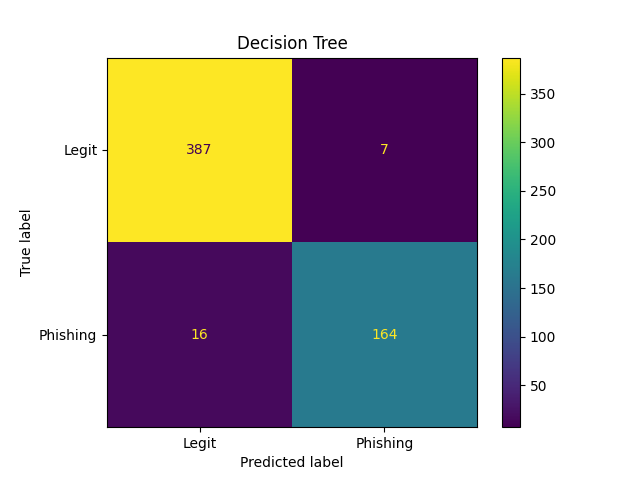
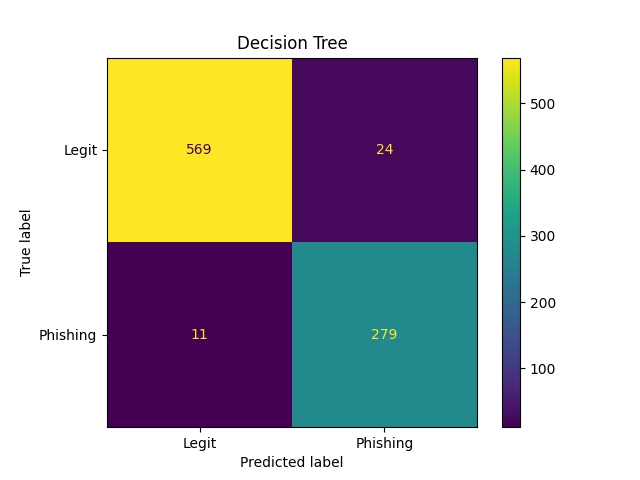
Tuning decision trees Gini importance to explain decision tree

diff --git a/explanation.py b/explanation.py
@@ -1,10 +1,11 @@
 import matplotlib.pyplot as plt
 from lime import lime_tabular
 from matplotlib import pyplot
-
+from heapq import nsmallest
 from data import load_data
 import warnings
 
+import numpy as np
 import os
 import pickle
 
@@ -22,12 +23,12 @@ def show_explanation(explanation, title=""):
     plt.show()
 
 
-def explain(explainer, instance_to_explain, model, num_features):
+def explain(explainer, instance_to_explain, model, num_features, print_out=True):
     explanation = explainer.explain_instance(instance_to_explain, model.predict_proba, num_features=num_features)
     pred = model.predict_proba(instance_to_explain.values.reshape(1, -1))
-    print(f"Predictions: Legit = {pred[0][0]}, Phishing = {pred[0][1]}")
-    print(explanation.as_list())
-
+    if print_out:
+        print(f"Predictions: Legit = {pred[0][0]}, Phishing = {pred[0][1]}")
+        print(explanation.as_list())
     return explanation, pred
 
 
@@ -48,6 +49,98 @@ def save_explanation_to_file(explanation, file_name, folder_name=None):
     explanation.save_to_file(os.path.join(base_path, file_name+".html"))
 
 
+def tree_global_explanation(tree_model):
+    # Decision tree feature importance based on the Gini index (Gini importance)
+    # Importance of a feature is computed as the total reduction of the criterion brought by that feature weighted by
+    # the probability of reaching that node (# of samples that reach the node, divided by the tot # of samples)
+    # The higher the value, the more important the feature.
+    importance = tree_model.feature_importances_
+    # summarize feature importance
+    for i, v in enumerate(importance):
+        print('Feature: %0d (%s), Score: %.5f' % (i, feature_names[i], v))
+    # plot decision tree feature importance
+    pyplot.bar([x for x in range(len(importance))], importance)
+    pyplot.show()
+
+
+def tree_local_explanation(clf, x_test, start_index=0, end_index=10, n_top_features=3):
+    node_indicator = clf.decision_path(x_test)
+    n_nodes = clf.tree_.node_count
+    feature = clf.tree_.feature
+    threshold = clf.tree_.threshold
+    leaf_id = clf.apply(x_test)
+    sample_ids = range(start_index, end_index)
+
+    for sample_id in sample_ids:
+        # obtain ids of the nodes `sample_id` goes through, i.e., row `sample_id`
+        node_index = node_indicator.indices[
+                     node_indicator.indptr[sample_id]: node_indicator.indptr[sample_id + 1]
+                     ]
+
+        print("Rules used to predict sample {id}:\n".format(id=sample_id))
+        print(f"Sample {id}:", x_test.iloc[sample_id])
+        # node = 0  # start at root
+        impurity_at_node = 1
+        features_impurity_differences = {f: 0 for f in feature_names}
+        for node_id in node_index:
+            # continue to the next node if it is a leaf node
+            feature_name = x_test.iloc[sample_id].keys()[feature[node_id]]  # the feature considered for the node split
+            if leaf_id[sample_id] == node_id:
+                continue
+            # check if value of the split feature for sample 0 is below threshold
+            if x_test.iloc[sample_id, feature[node_id]] <= threshold[node_id]:
+                threshold_sign = "<="
+                # node = clf.tree_.children_left[node]
+            else:
+                threshold_sign = ">"
+                # node = clf.tree_.children_right[node]
+            if node_id != 0:
+                diff_impurity = clf.tree_.impurity[node_id] - impurity_at_node
+                features_impurity_differences[feature_name] += diff_impurity
+            impurity_at_node = clf.tree_.impurity[node_id]
+
+            print(
+                "decision node {node} : ({feature_name} = {value}) "
+                "{inequality} {threshold})".format(
+                    node=node_id,
+                    sample=sample_id,
+                    feature_name= feature_name,
+                    feature=feature[node_id],
+                    value=x_test.iloc[sample_id, feature[node_id]],
+                    inequality=threshold_sign,
+                    threshold=threshold[node_id],
+                )
+            )
+
+        # For a group of samples, we can determine the common nodes the samples go through
+        common_nodes = node_indicator.toarray()[sample_ids].sum(axis=0) == len(sample_ids)
+        # obtain node ids using position in array
+        common_node_id = np.arange(n_nodes)[common_nodes]
+        print(f"\nThe following samples {sample_ids} share the node(s) {common_node_id} in the tree.")
+        print("This is {prop}% of all nodes.".format(prop=100 * len(common_node_id) / n_nodes))
+        top_features_gini_importance = nsmallest(n_top_features, features_impurity_differences,
+                                                 key=features_impurity_differences.get)
+        print(f"Top features are: {top_features_gini_importance}")
+        return top_features_gini_importance
+
+
+def lime_explain(model, lime_explainer, x_test, y_test, file_name='lime', start_index=0, end_index=10, show=True, save_file=True):
+    warnings.filterwarnings(action='ignore', category=UserWarning)
+
+    for i in range(start_index, end_index):
+        instance = x_test.iloc[i]
+        real_class = 'Legit (0)' if y_test.iloc[i].item() == 0 else 'Phishing (1)'
+        print("Instance " + str(i) + f" - Real class: {real_class}")
+        folder_name = str(i)+"_"+str(y_test.iloc[i].item())
+        # DECISION TREE
+        explanation_model, predictions = explain(lime_explainer, instance, model, len(feature_names))
+        if show:
+            show_explanation(explanation_model, "Explanation " + file_name)
+        if save_file:
+            save_explanation_to_file(explanation_model, file_name, folder_name=folder_name)
+        return explanation_model, predictions
+
+
 if __name__ == "__main__":
     # Load data
     seed = 42
@@ -57,44 +150,22 @@ if __name__ == "__main__":
     dt_model = load_model('decision_tree.obj')
     svm_model = load_model('svm.obj')
     rf_model = load_model('random_forest.obj')
+    lr_model = load_model('logistic_regression.obj')
 
-    warnings.filterwarnings(action='ignore', category=UserWarning)
+    start_test = 0
+    end_test = 10
 
-    # Decision tree feature importance based on the Gini index (Gini importance)
-    # Importance of a feature is computed as the (normalized) total reduction of the criterion brought by that feature.
-    importance = dt_model.feature_importances_
-    # summarize feature importance
-    for i, v in enumerate(importance):
-        print('Feature: %0d (%s), Score: %.5f' % (i, feature_names[i], v))
-    # plot feature importance
-    pyplot.bar([x for x in range(len(importance))], importance)
-    pyplot.show()
-
+    # tree_global_explanation(dt_model)
+    tree_local_explanation(dt_model, x_test, start_test, end_test)
     # LIME Explanations for single instances of the test set
     lime_explainer = lime_tabular.LimeTabularExplainer(x_training.values, mode="classification",
                                                        class_names=['Legit', 'Phishing'],
-                                                       feature_names=feature_names)
-    for i in range(0, 0):
-        instance = x_test.iloc[i]
-        real_class = 'Legit (0)' if y_test.iloc[i].item() == 0 else 'Phishing (1)'
-        print("Instance " + str(i) + f" - Real class: {real_class}")
+                                                       feature_names=feature_names, random_state=seed)
 
-        folder_name = str(i)+"_"+str(y_test.iloc[i].item())
-        # DECISION TREE
-        explanation_dt, _ = explain(lime_explainer, instance, dt_model, len(feature_names))
-        # show_explanation(explanation_dt, "Explanation DT")
-        save_explanation_to_file(explanation_dt, 'decision_tree', folder_name=folder_name)
-
-        # SVM
-        explanation_svm, _ = explain(lime_explainer, instance, svm_model, len(feature_names))
-        # show_explanation(explanation_svm, "Explanation SVM")
-        save_explanation_to_file(explanation_svm, 'svm', folder_name=folder_name)
-
-        # RANDOM FOREST
-        explanation_rf, predictions_instance = explain(lime_explainer, instance, rf_model, len(feature_names))
-        # show_explanation(explanation_rf, "Explanation RF")
-        save_explanation_to_file(explanation_rf, 'random_forest', folder_name=folder_name)
-        print("\n")
+    lime_explain(dt_model, lime_explainer, x_test, y_test, 'decision_tree', start_test, end_test)
+    # lime_explain(svm_model, lime_explainer, x_test, y_test, 'svm', start_test, end_test)
+    # lime_explain(rf_model, lime_explainer, x_test, y_test, 'random_forest', start_test, end_test)
+    # lime_explain(lr_model, lime_explainer, x_test, y_test, 'logistic_regression', start_test, end_test)
 
     # explanation_rf_1, predictions_instance_1 = explain_without_features(lime_explainer, instance,
     #                                                                    rf_model, explanation_rf,

diff --git a/training.py b/training.py
@@ -21,11 +21,11 @@ from data import load_data, stratifiedKFold
 
 def showTree(model, feature_names):
     plt.figure(figsize=(200, 20))
-    tree.plot_tree(model)
+    tree.plot_tree(model, feature_names=feature_names, filled=True, rounded=True, class_names=["Legit", "Phishing"])
     print("Number of nodes:", model.tree_.node_count)
     print("Number of leaves:", model.get_n_leaves())
     plt.show()
-    output_filepath = os.path.join('output', 'decision_tree.dot')
+    """output_filepath = os.path.join('output', 'decision_tree.dot')
     dot_data = tree.export_graphviz(model, out_file=None,
                                     feature_names=feature_names,
                                     class_names=["Legit", "Phishing"],
@@ -33,7 +33,7 @@ def showTree(model, feature_names):
                                     special_characters=True)
     # graph = pydotplus.graphviz.graph_from_dot_data(dot_data)
     # graph.write_png(output_filepath)
-    # return graph
+    # return graph"""
 
 
 def decisionTreeF1(x, y, model):
@@ -46,6 +46,8 @@ def determineDTkFoldConfiguration(x_train, x_val, y_train, y_val, class_weights,
     best_criterion = 'gini'
     best_alpha = 0
     best_f1 = 0
+    min_samples_leaf = 7
+    max_depth = 8
     n_folds = len(x_train)
     for criterion in ['gini', 'entropy']:
         for alpha in np.arange(0, 0.2, 0.001):
@@ -55,7 +57,9 @@ def determineDTkFoldConfiguration(x_train, x_val, y_train, y_val, class_weights,
                 t = tree.DecisionTreeClassifier(criterion=criterion,
                                                 ccp_alpha=alpha,
                                                 random_state=seed,
-                                                class_weight=class_weights)
+                                                class_weight=class_weights,
+                                                min_samples_leaf=min_samples_leaf,
+                                                max_depth=max_depth)
                 t.fit(x_train[k], y_train[k])
                 f1_scores[k] = decisionTreeF1(x=x_val[k], y=y_val[k], model=t)
             avg_f1 = sum(f1_scores) / n_folds
@@ -65,7 +69,8 @@ def determineDTkFoldConfiguration(x_train, x_val, y_train, y_val, class_weights,
                 best_alpha = alpha
                 best_criterion = criterion
 
-    return best_alpha, best_criterion
+    return {"alpha": best_alpha, "criterion": best_criterion,
+            "max_depth": max_depth, "min_samples_leaf": min_samples_leaf}
 
 
 # SVM Hyper-parameter tuning
@@ -238,15 +243,17 @@ if __name__ == '__main__':
     class_weights = {0: 1, 1: 2}
 
     # --- DECISION TREE ----
-    # best_alpha_tree, best_criterion_tree = determineDTkFoldConfiguration(x_train_v, x_val, y_train_v, y_val,
-    #                                                                     class_weights, seed)
-    # print(best_alpha_tree, best_criterion_tree)
-    best_alpha_tree = 0  # 0.002
-    best_criterion_tree = 'entropy'
-    dt_model = tree.DecisionTreeClassifier(criterion=best_criterion_tree,
-                                           ccp_alpha=best_alpha_tree,
+    best_parameters_dt = determineDTkFoldConfiguration(x_train_v, x_val, y_train_v, y_val,
+                                                       class_weights, seed)
+    print(best_parameters_dt["alpha"], best_parameters_dt["criterion"])
+    # best_alpha_tree = 0  # 0.002
+    # best_criterion_tree = 'entropy'
+    dt_model = tree.DecisionTreeClassifier(criterion=best_parameters_dt["criterion"],
+                                           ccp_alpha=best_parameters_dt["alpha"],
                                            random_state=seed,
-                                           class_weight=class_weights)
+                                           class_weight=class_weights,
+                                           min_samples_leaf=best_parameters_dt["min_samples_leaf"],
+                                           max_depth=best_parameters_dt["max_depth"])
     
     dt_model.fit(x_training, y_training)
     showTree(dt_model, feature_names)
@@ -254,7 +261,7 @@ if __name__ == '__main__':
     displayConfusionMatrix(y_test, predictions_tree, "Decision Tree")
     saveModel(dt_model, 'decision_tree')
     # print("Tree:", classification_report(y_test, predictions))
-    
+    """
     # --- SVM ----
     # best_parameters_svm = determineSVMkFoldConfiguration(x_train_v, x_val, y_train_v, y_val, class_weights, seed)
     # print(best_parameters_svm)
@@ -305,3 +312,4 @@ if __name__ == '__main__':
     predictions_lr = lr_model.predict(x_test)
     displayConfusionMatrix(y_test, predictions_lr, "LR")
     saveModel(lr_model, 'logistic_regression')
+"""

diff --git a/preprocess.py b/preprocess.py
@@ -56,6 +56,12 @@ def write_feature_file(file_path, features):
             output.write(json.dumps(features, sort_keys=True, default=str))
 
 
+if __name__ == '__main__':
+    enron_dataset()
+    spam_assassin_dataset('easy_ham')
+    spam_assassin_dataset('hard_ham')
+
+
 """
 # Change only the links_present feature
 def dataset_links(folder):
@@ -122,10 +128,3 @@ def compute_ip_addr_features(folder='', dataset=None):
                     features["url_ip_address"] = ip
                     write_feature_file(file_path, features)
 """
-
-
-if __name__ == '__main__':
-    enron_dataset()
-    spam_assassin_dataset('easy_ham')
-    spam_assassin_dataset('hard_ham')
-
